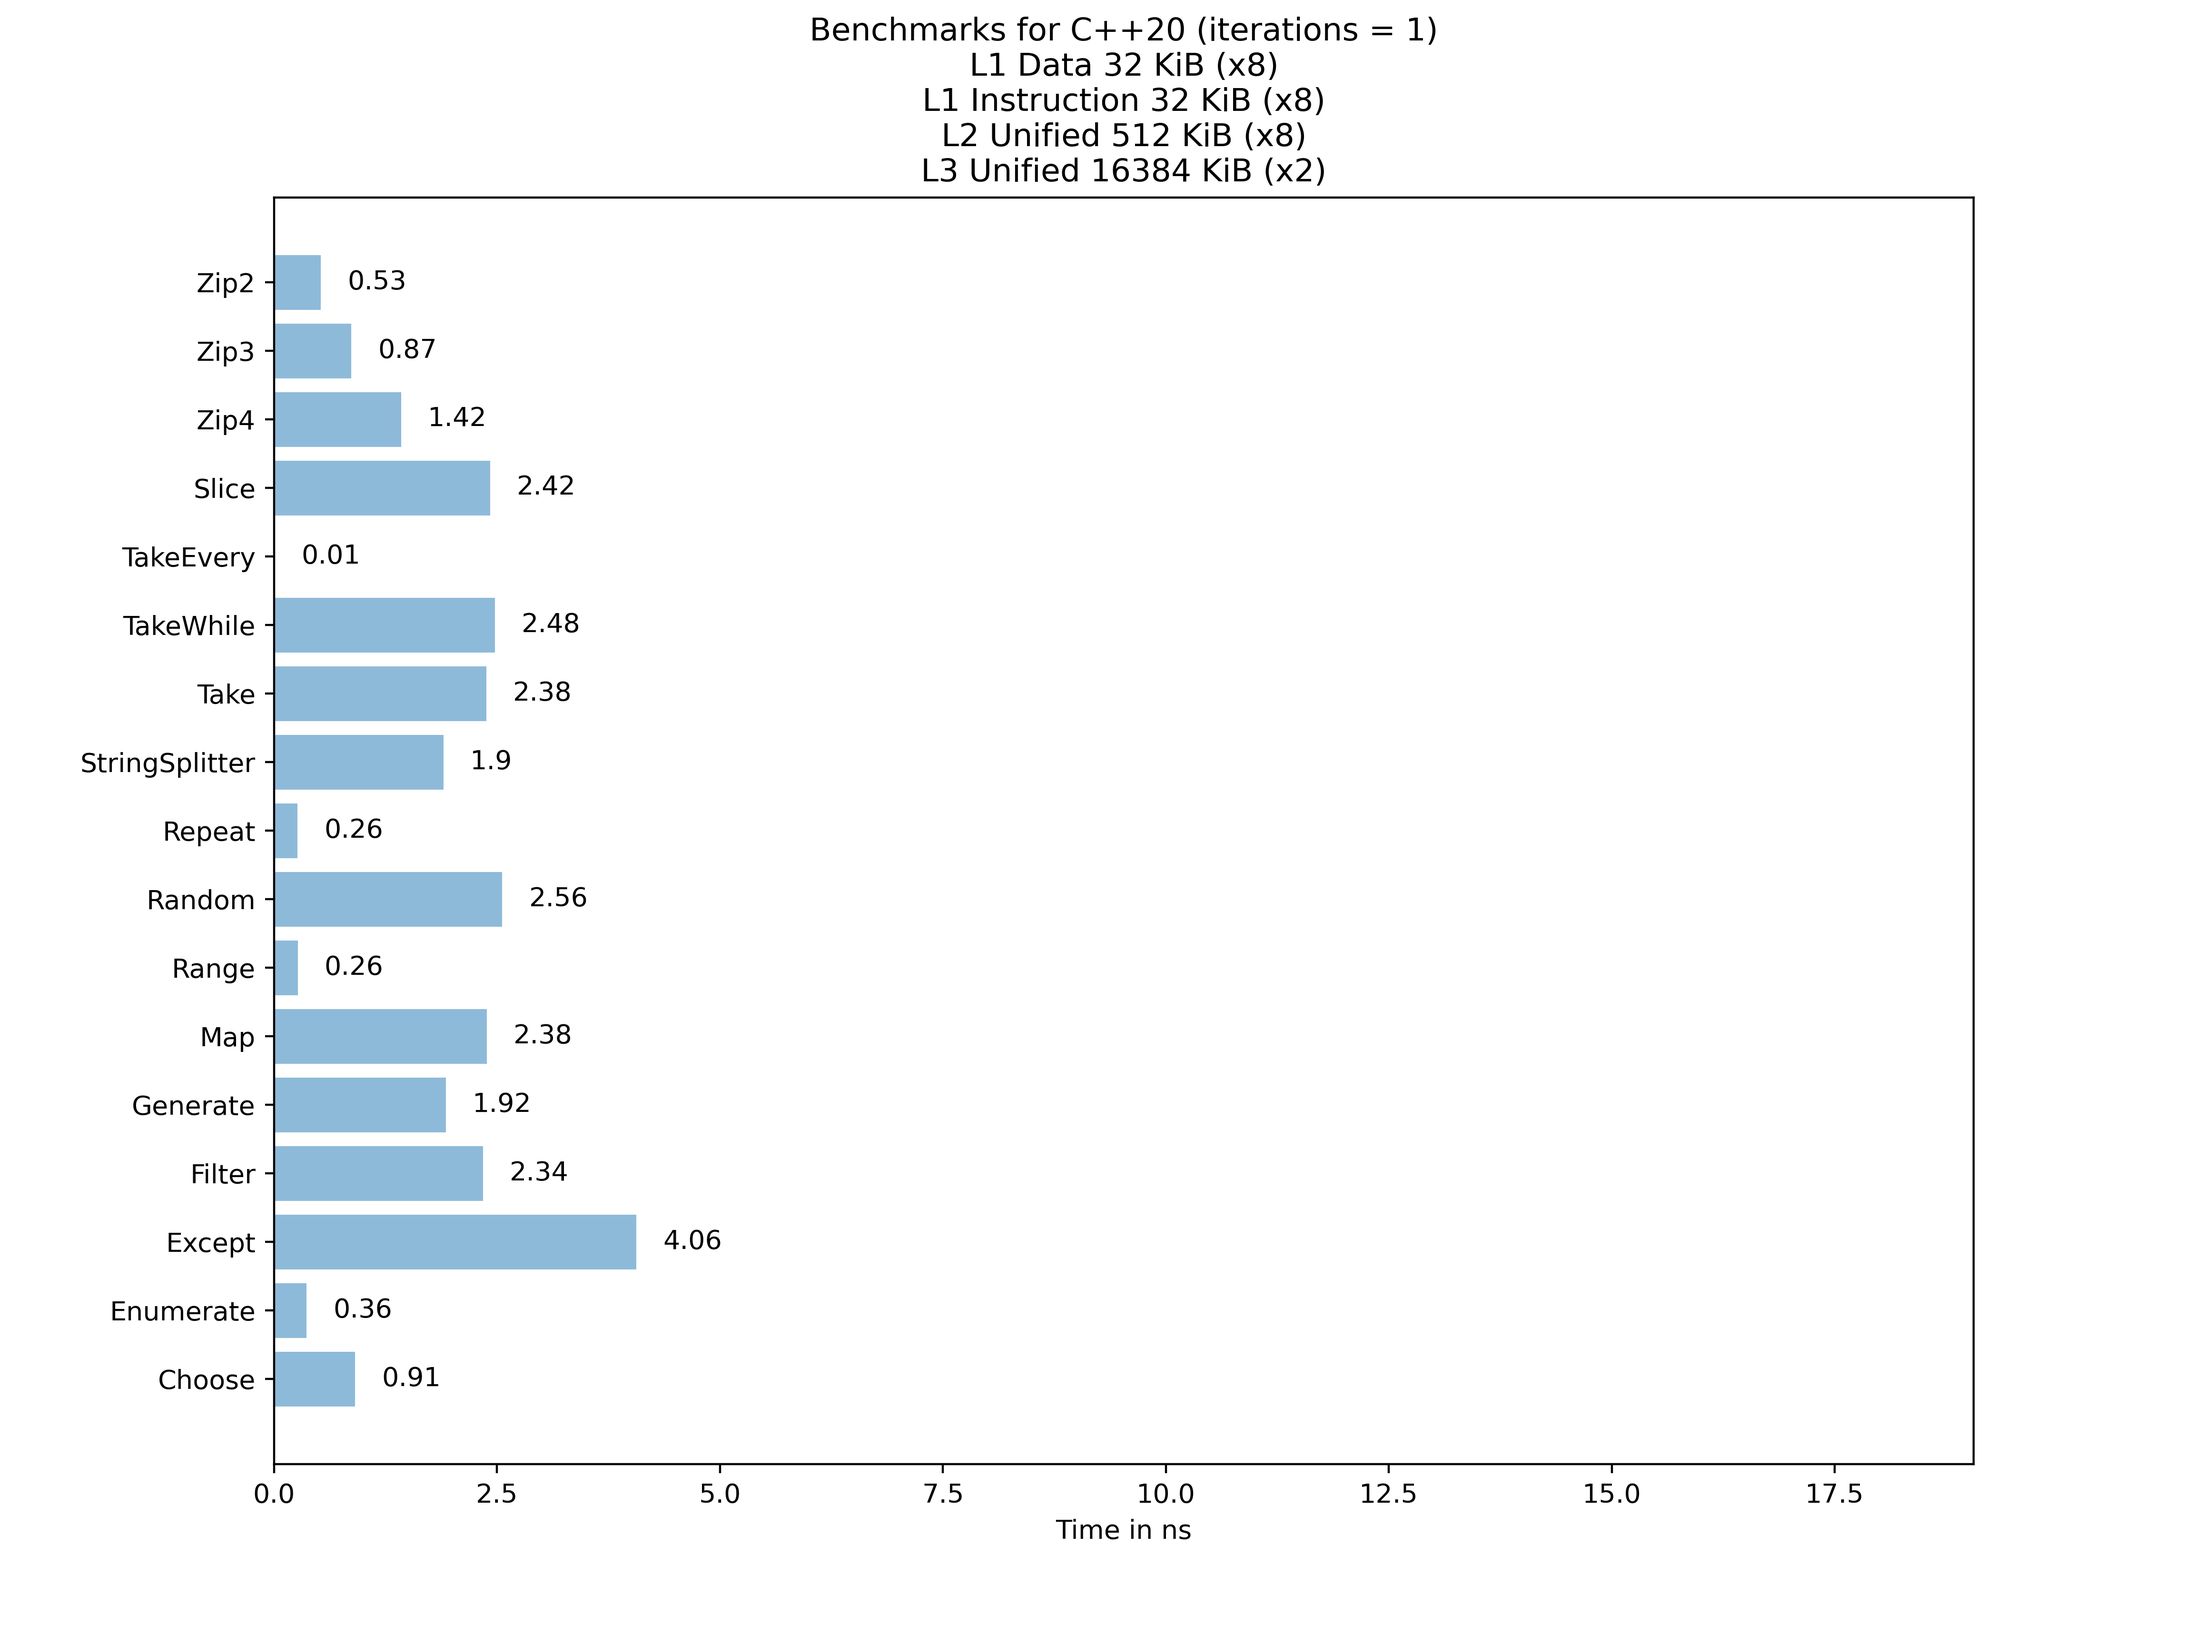
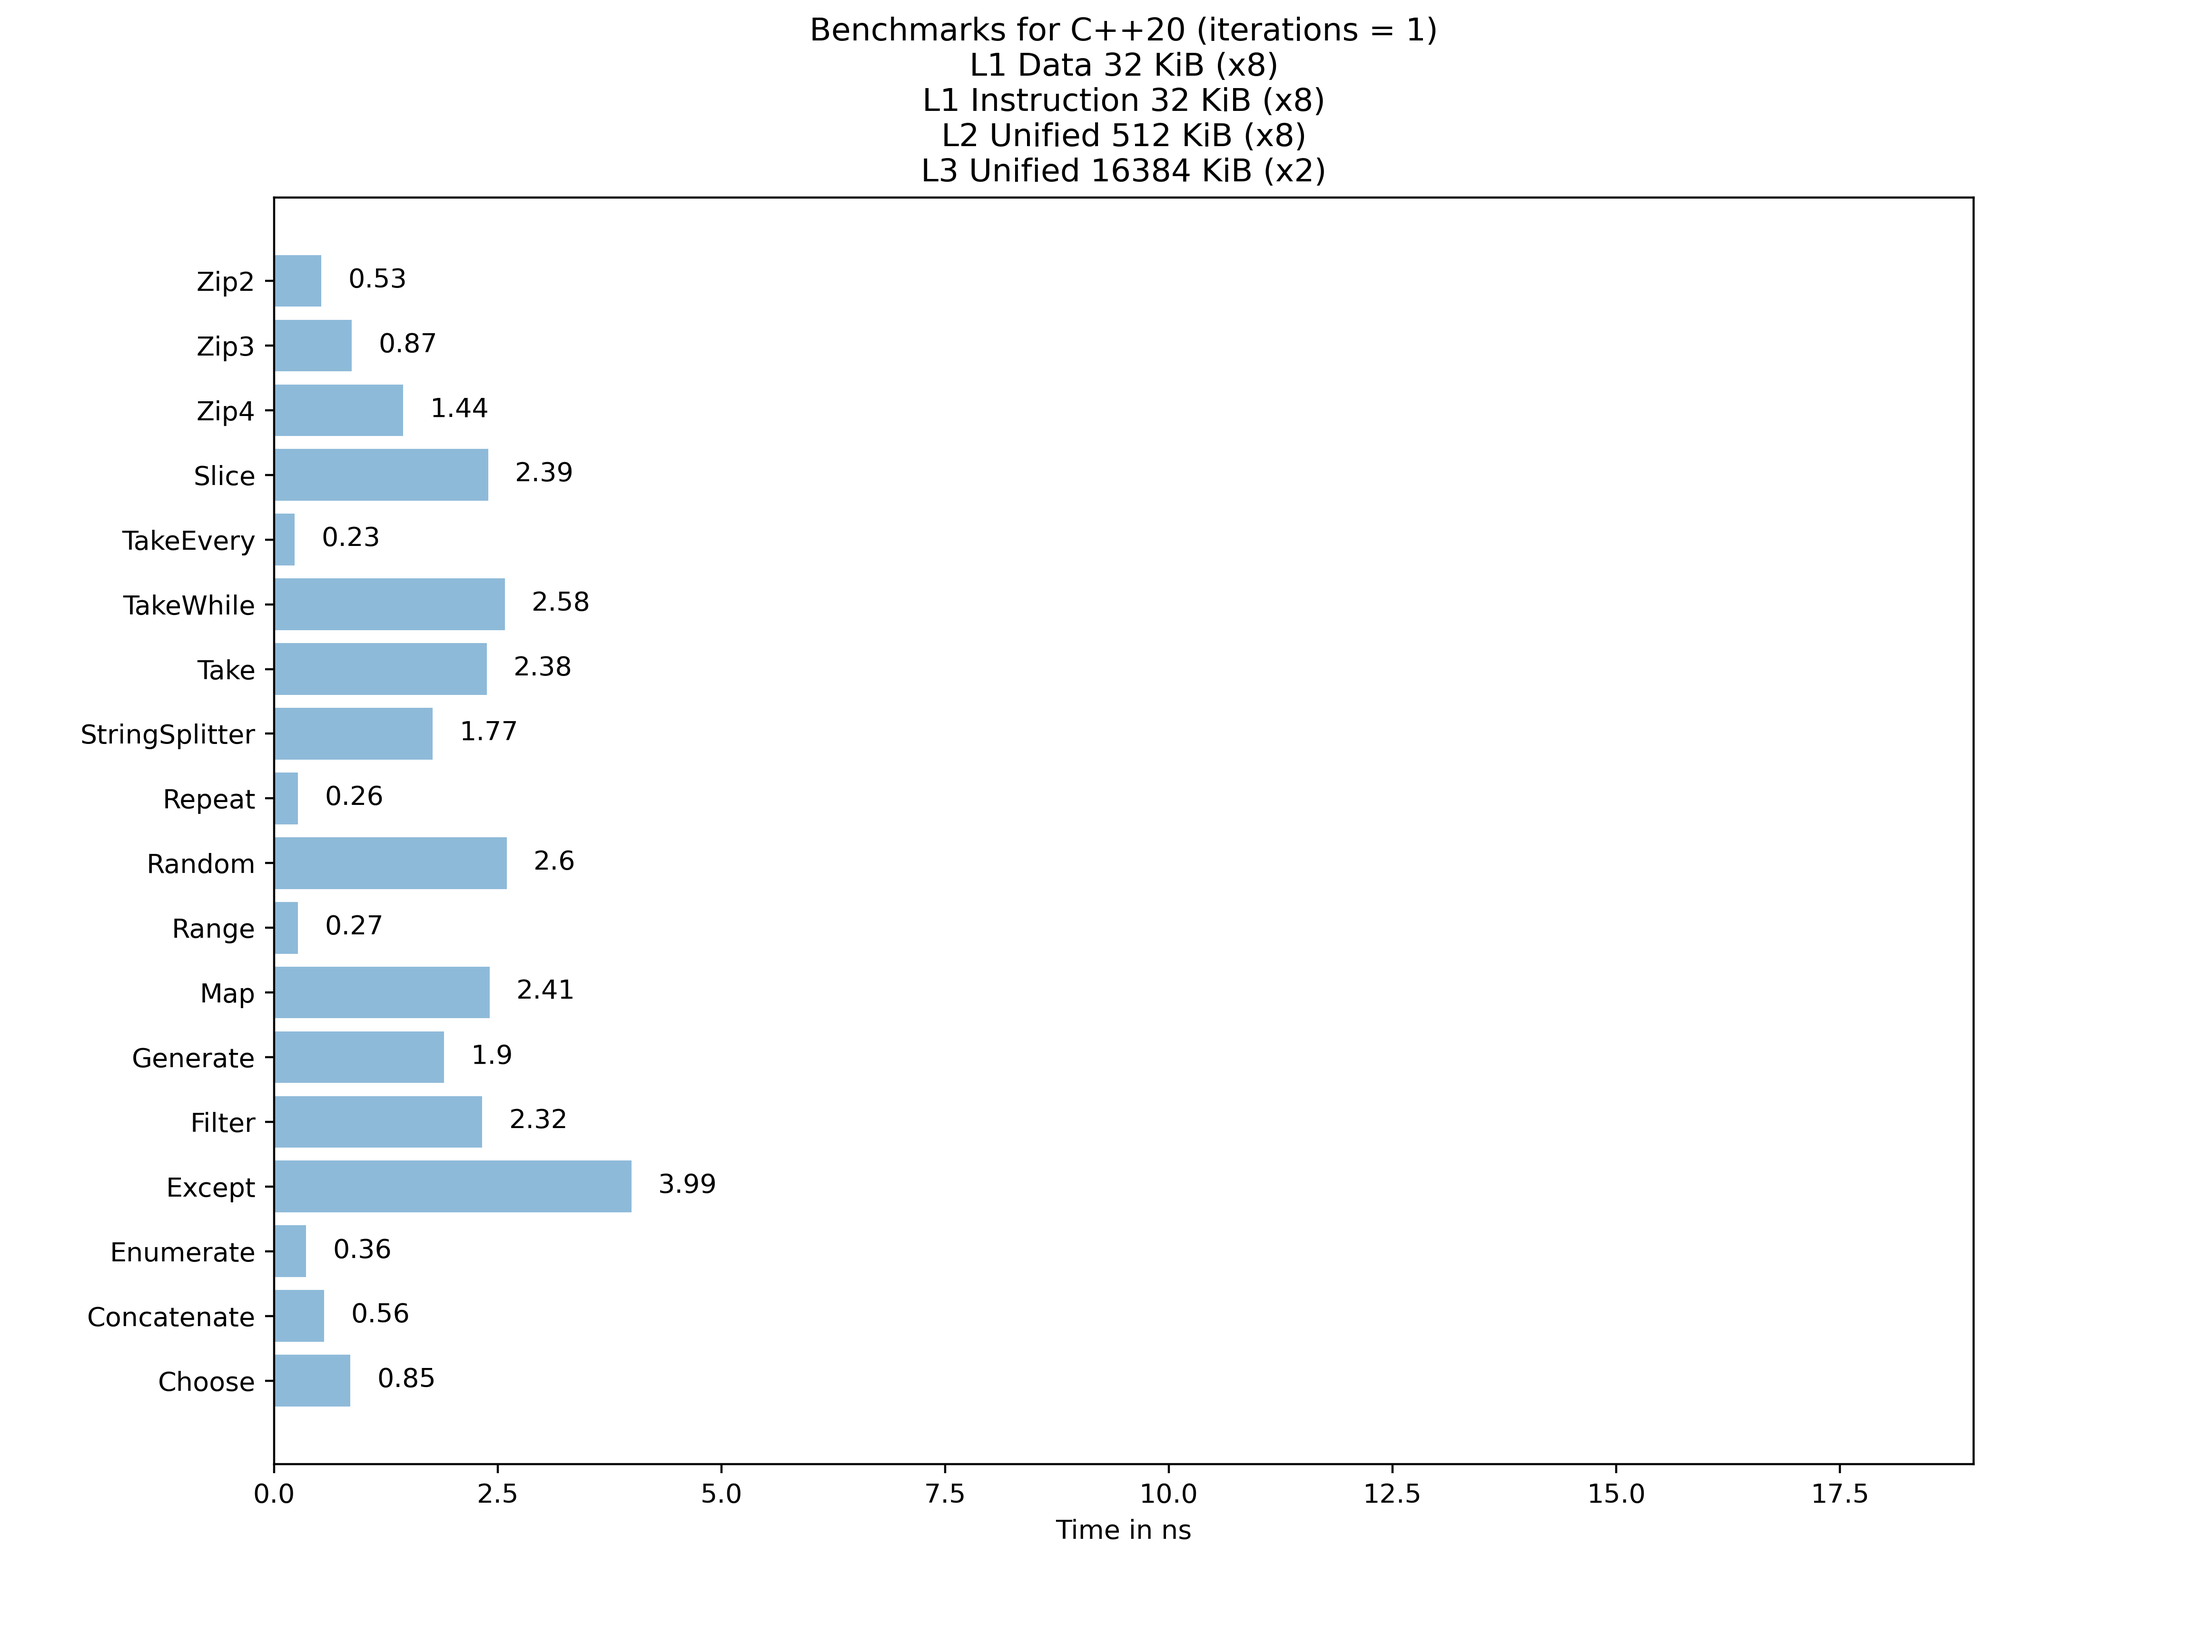
Added benchmarks

Changed region(s): [[0.0312, 0.1562, 0.3125, 0.8438], [0.7188, 0.9062, 0.75, 0.9375], [0.0938, 0.1875, 0.125, 0.2188]]

diff --git a/bench/benchmarks-iterators.cpp b/bench/benchmarks-iterators.cpp
@@ -221,7 +221,21 @@ static void Generate(benchmark::State& state) {
     }
 }
 
+static void Concatenate(benchmark::State& state) {
+    std::string a(static_cast<size_t>(SizePolicy / 2), '0');
+    std::string b(static_cast<size_t>(SizePolicy / 2), '1');
+
+    for (auto _ : state) {
+        auto concat = lz::concat(a, b);
+
+        for (char c : concat) {
+            benchmark::DoNotOptimize(c);
+        }
+    }
+}
+
 BENCHMARK(Choose);
+BENCHMARK(Concatenate);
 BENCHMARK(Enumerate);
 BENCHMARK(Except);
 BENCHMARK(Filter);
